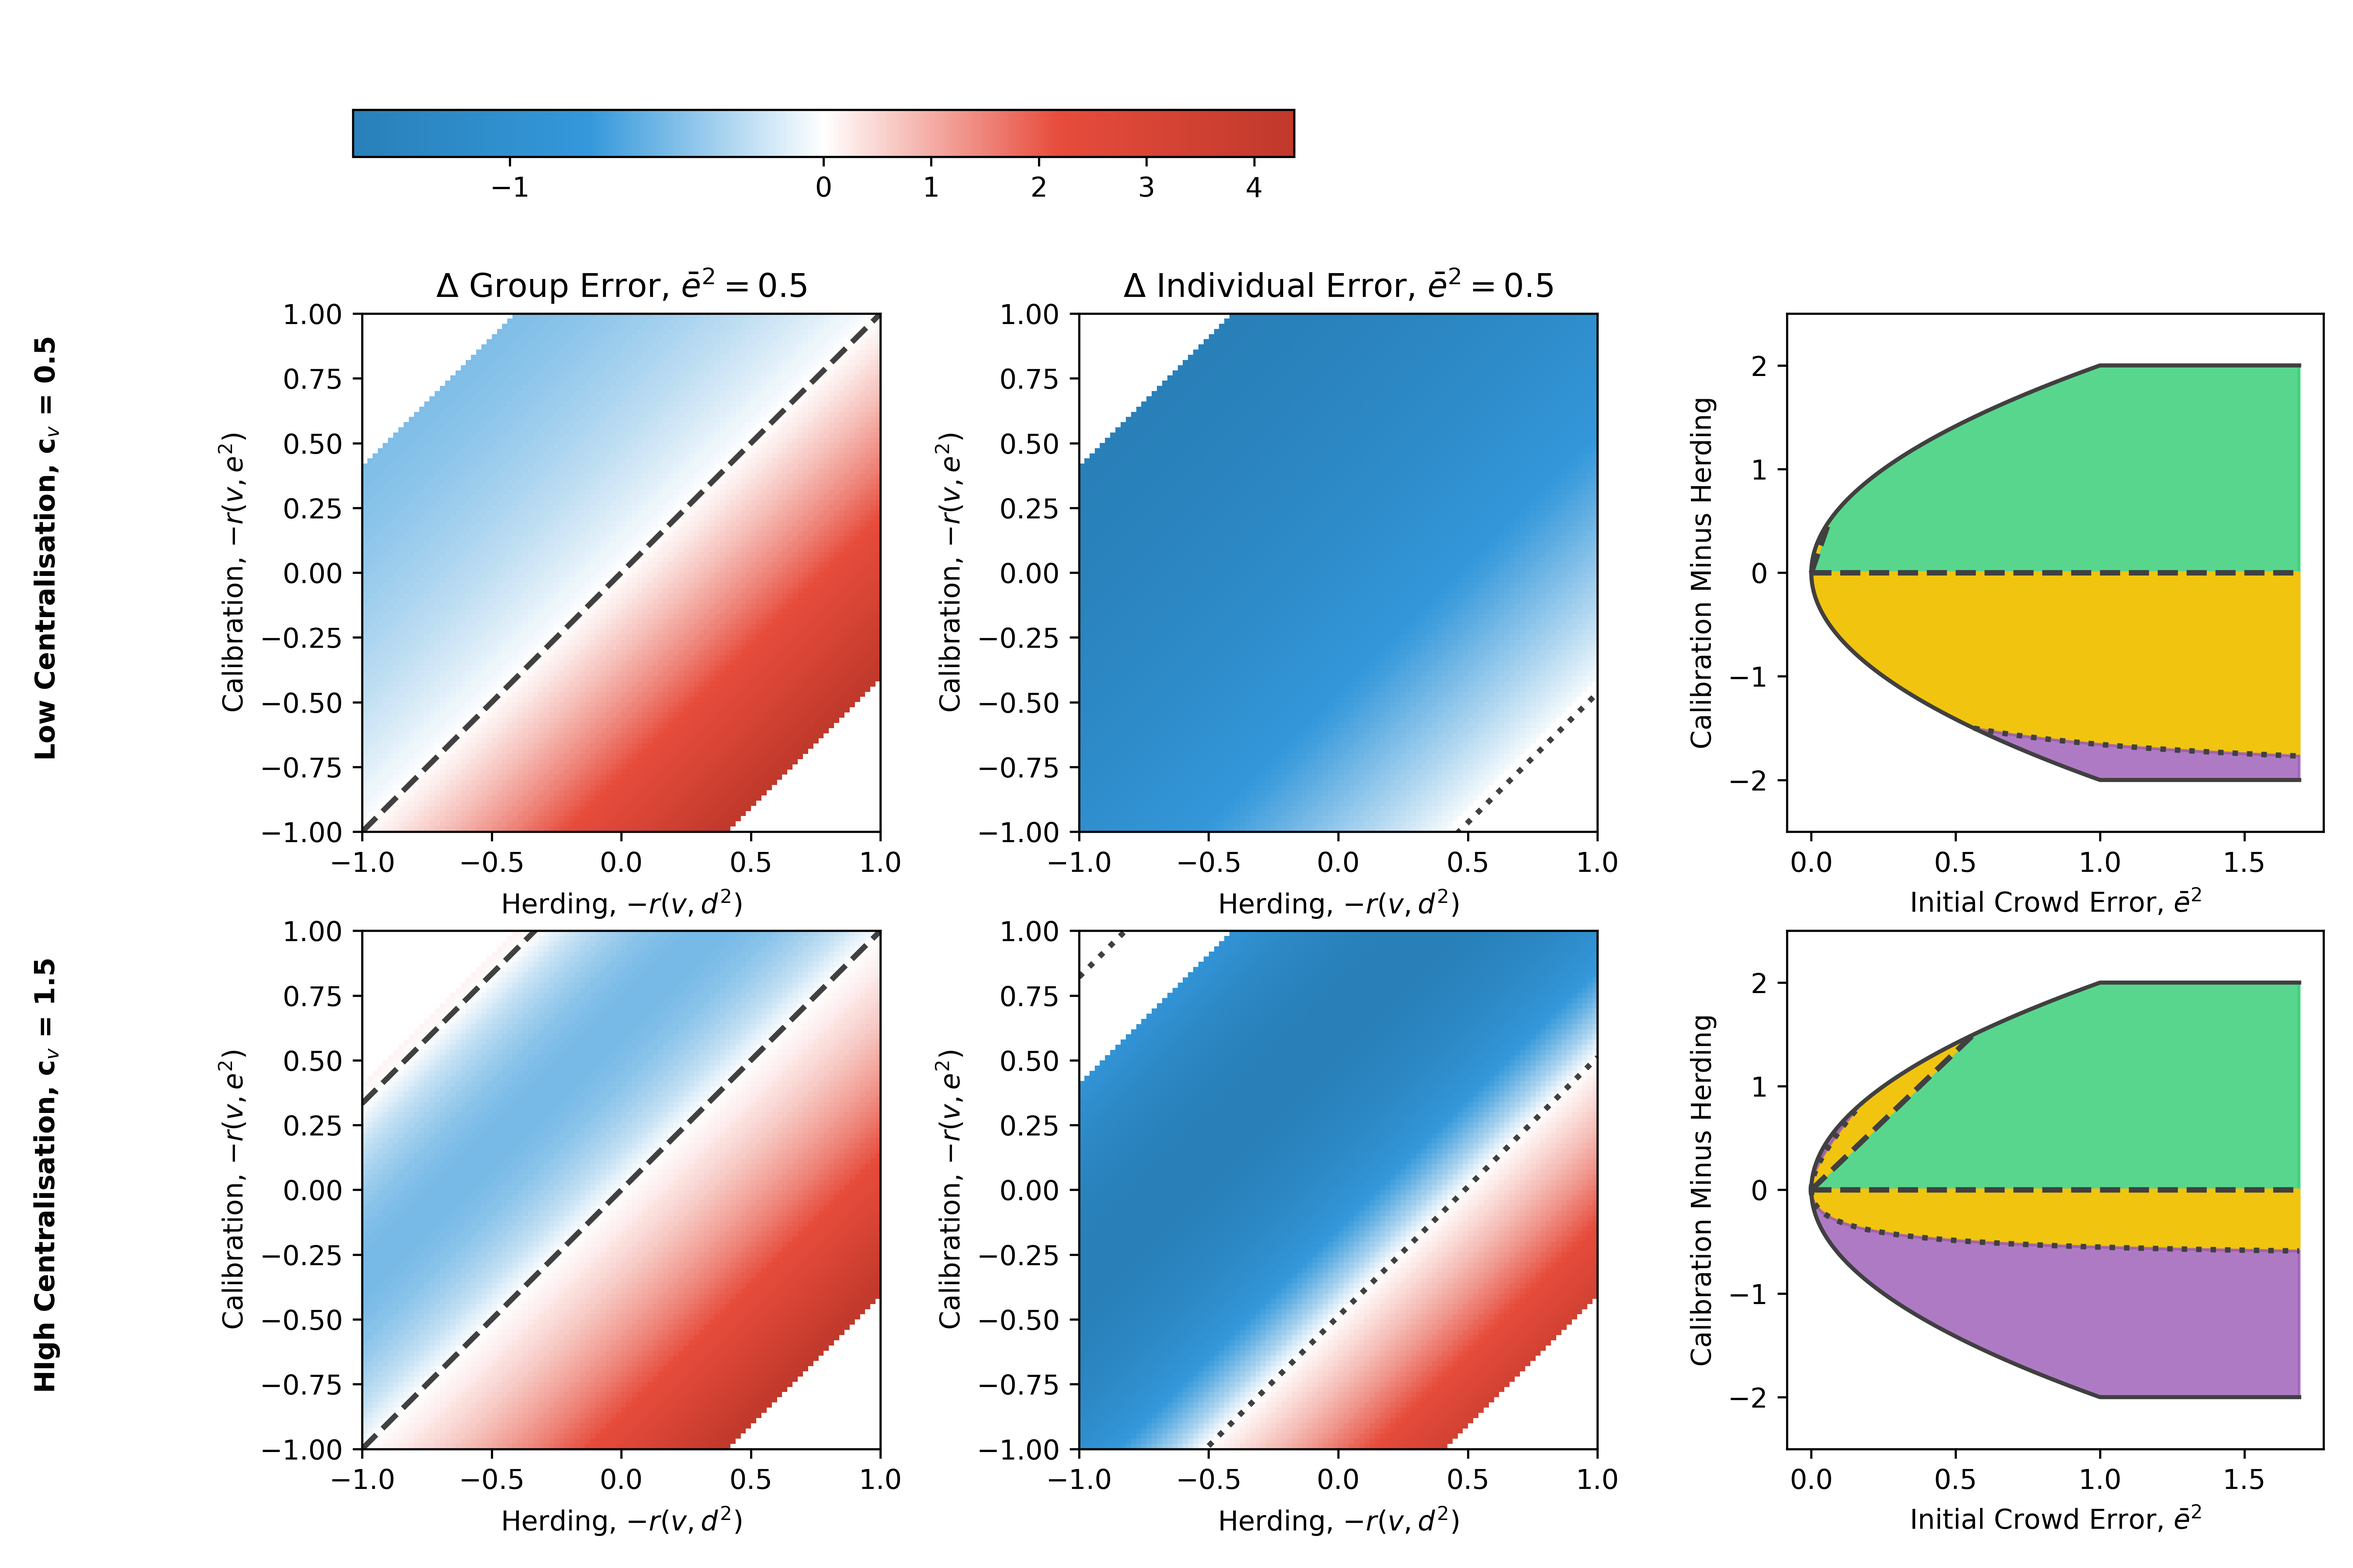
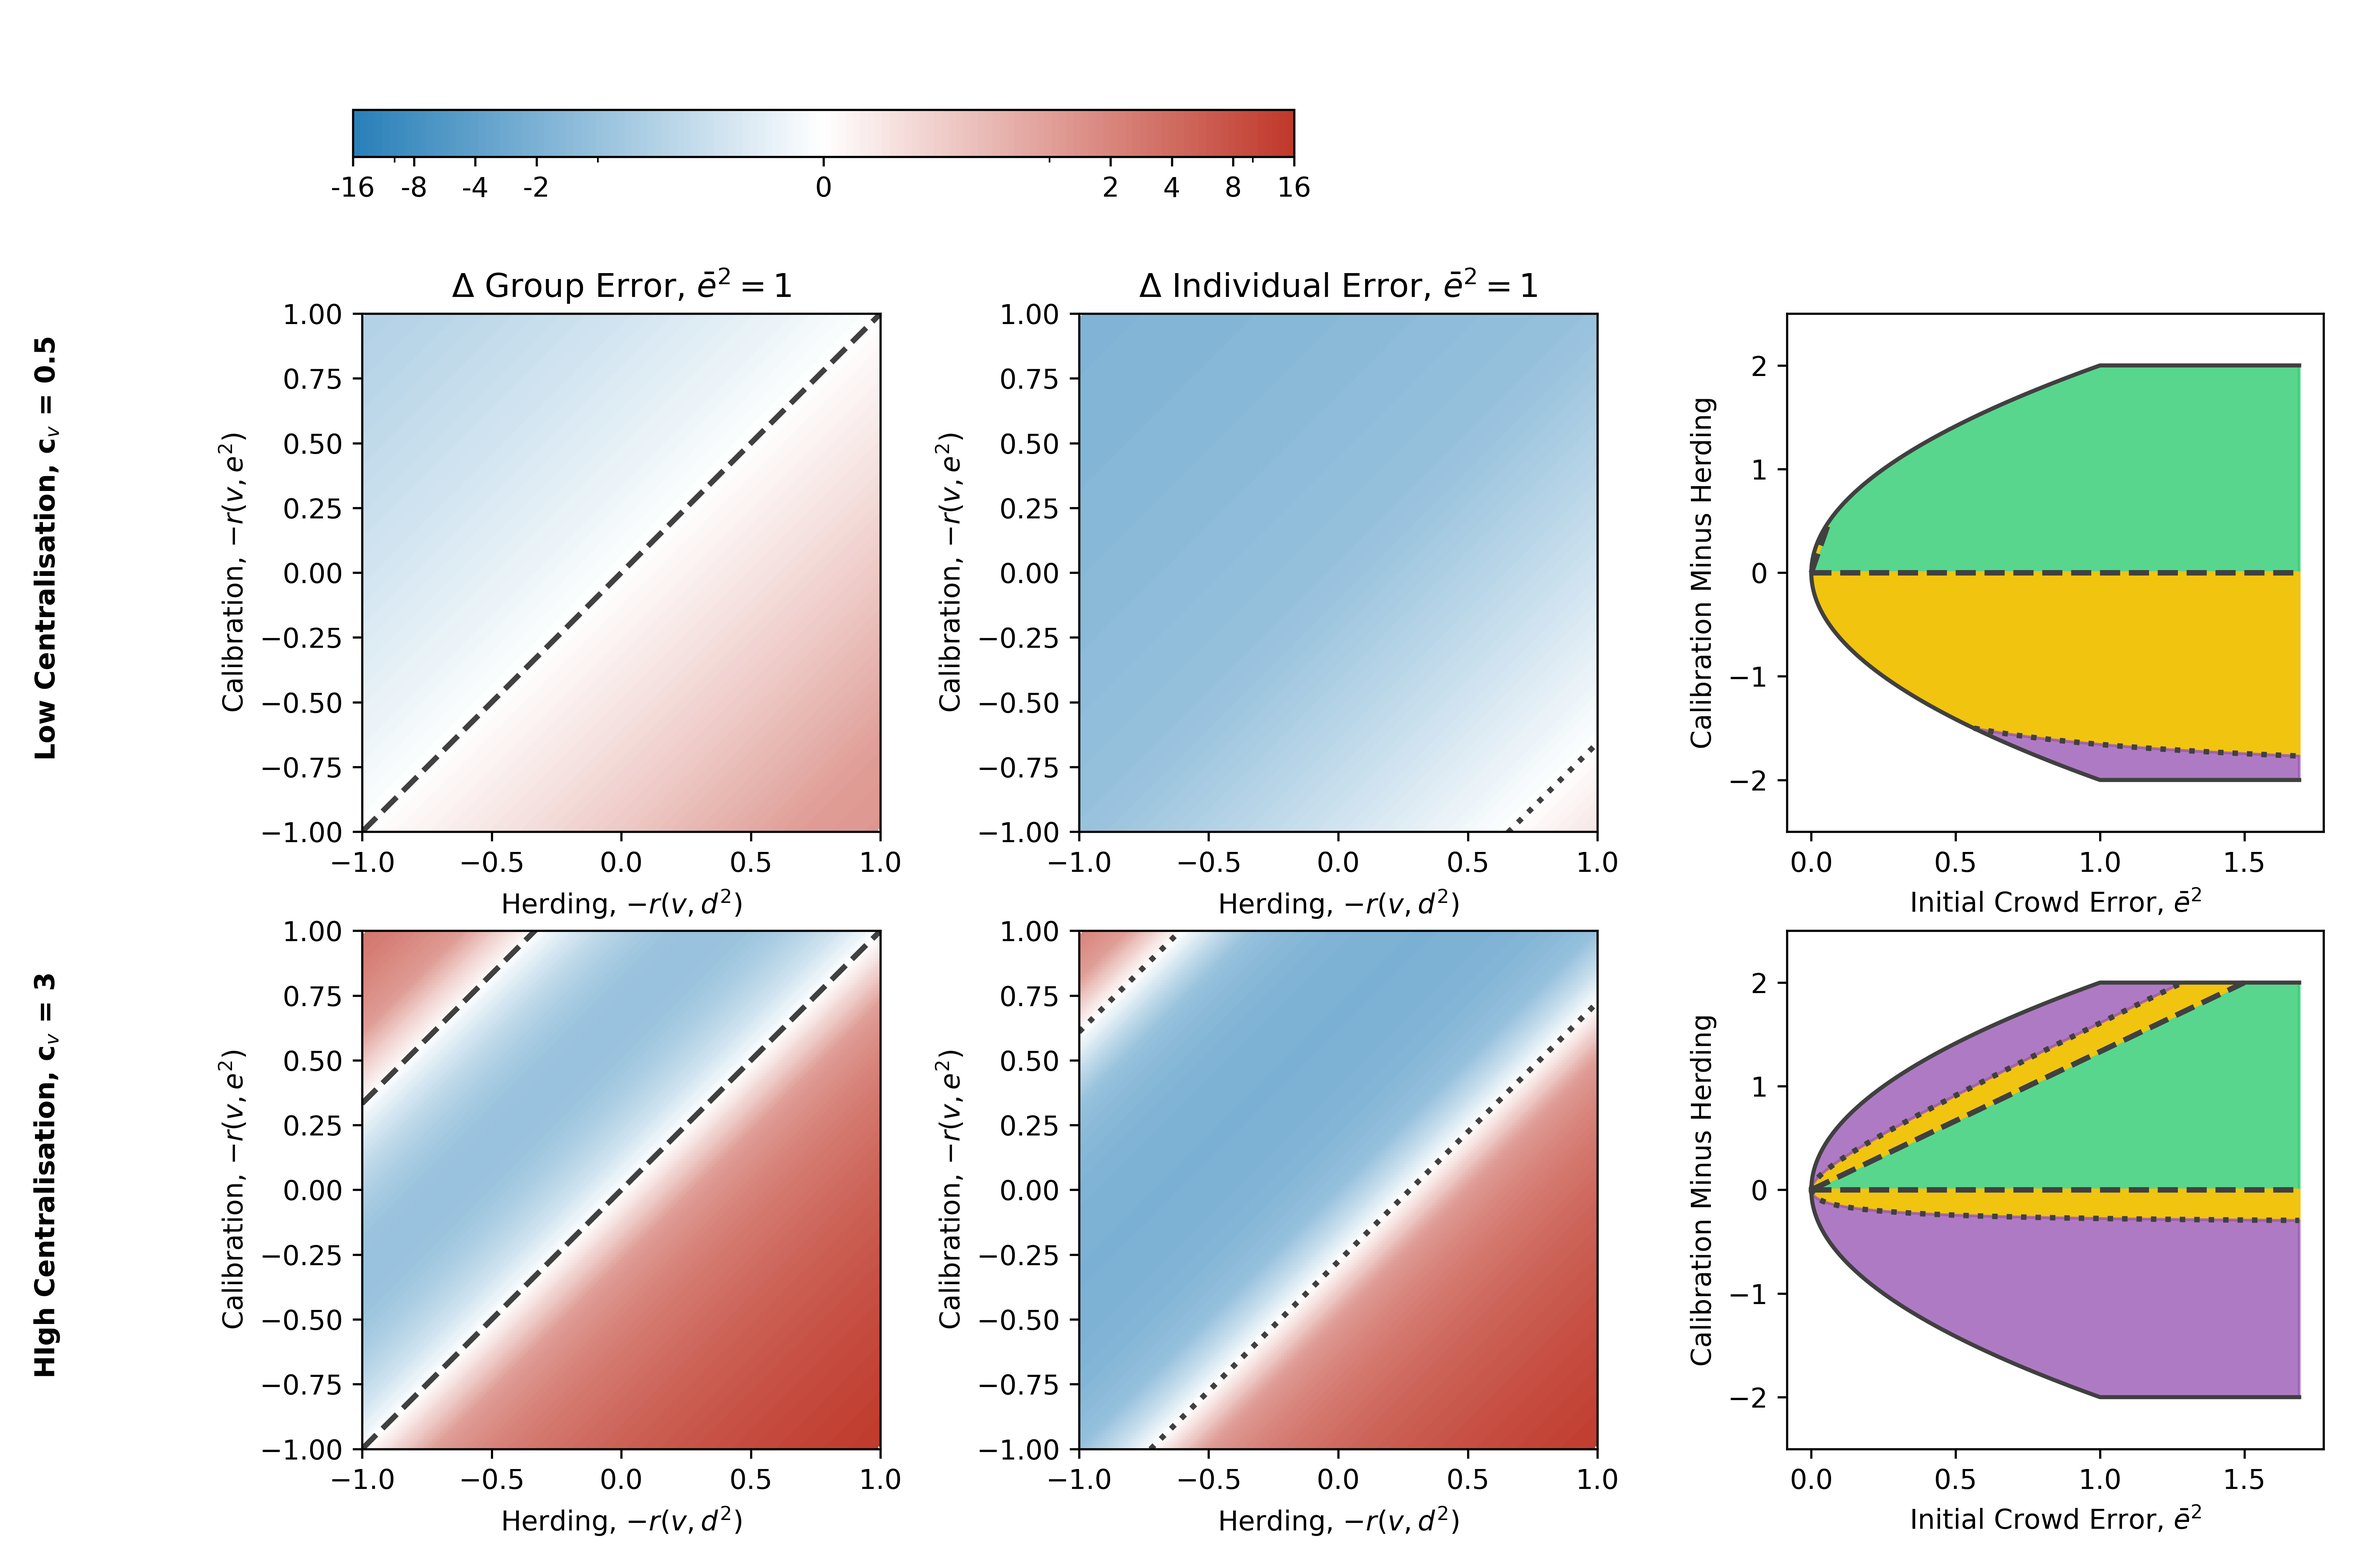
Changed colors

diff --git a/plots/fig_1.py b/plots/fig_1.py
@@ -6,6 +6,9 @@ import matplotlib.pyplot as plt
 
 import matplotlib.colors as mcolors
 
+from matplotlib.ticker import FuncFormatter
+
+
 import sys
 sys.path.append("..")
 from robust_benefits import (
@@ -167,7 +170,7 @@ def plot_heatmaps(cvs=[0.5, 3], e2=0.5, std_e=1, std_e2=1, std_d2=1):
 	min_cal = -1
 	max_cal = 1
 
-	n  = 100
+	n  = 200
 
 	for k,cv in enumerate(cvs):
 
@@ -196,11 +199,17 @@ def plot_heatmaps(cvs=[0.5, 3], e2=0.5, std_e=1, std_e2=1, std_d2=1):
 
 		plt.subplot(2, 3, (3*k)+1)
 
-		divnorm = mcolors.TwoSlopeNorm(vmin=np.nanmin(delta_error_indy), vcenter=0, vmax=np.nanmax(delta_error_crowd))
-		
+		max_abs = np.nanmax(np.abs(delta_error_crowd))
+
+		print(max_abs)
+
+
+		divnorm = mcolors.SymLogNorm(linthresh=1, linscale=1.0, vmin=-16, vmax=16)
 		cmap = mcolors.LinearSegmentedColormap.from_list('custom_seismic', 
-										["#2980b9", "#3498db", 'white', "#e74c3c", "#c0392b"], 
-										N=256)
+										["#2980b9", 'white', "#c0392b"], 
+										N=128)
+		
+
 
 		plt.imshow(delta_error_crowd, norm=divnorm, cmap=cmap, 
 				interpolation='nearest', aspect='auto', origin='lower', 
@@ -261,9 +270,9 @@ def plot_figure_1():
 
 	fig = plt.figure(figsize=(12,8))
 
-	cvs = [0.5, 1.5]
+	cvs = [0.5, 3]
 	std_e = 1
-	e2 = 0.5
+	e2 = 1
 	
 	cmap, divnorm = plot_heatmaps(cvs=cvs, std_e=std_e, e2=e2)
 
@@ -301,14 +310,17 @@ def plot_figure_1():
 	sm.set_array([])
 
 	# Add the colorbar to the new axes
-	cbar = fig.colorbar(sm, cax=cbar_ax, orientation='horizontal')
+	cbar =  plt.colorbar(sm, cax=cbar_ax, orientation='horizontal')
+	ticks = [-16, -8, -4, -2, 0, 2, 4, 8, 16]
+	cbar.set_ticks(ticks)
+	cbar.ax.xaxis.set_major_formatter(FuncFormatter(lambda val, pos: f'{val:g}'))
+
 	
 	fig.text(0.02, 0.65, f"Low Centralisation, c$_v$ = {cvs[0]}", rotation=90, va='center', ha='center', fontweight='bold')
 	
 	# For the second row (cv = 2)
 	fig.text(0.02, 0.25, f"HIgh Centralisation, c$_v$ = {cvs[1]}", rotation=90, va='center', ha='center', fontweight='bold')
 	
-
 
 	plt.savefig("images/fig_1_colors_{}.png".format(COLOR_SCHEME), dpi=600)
 
